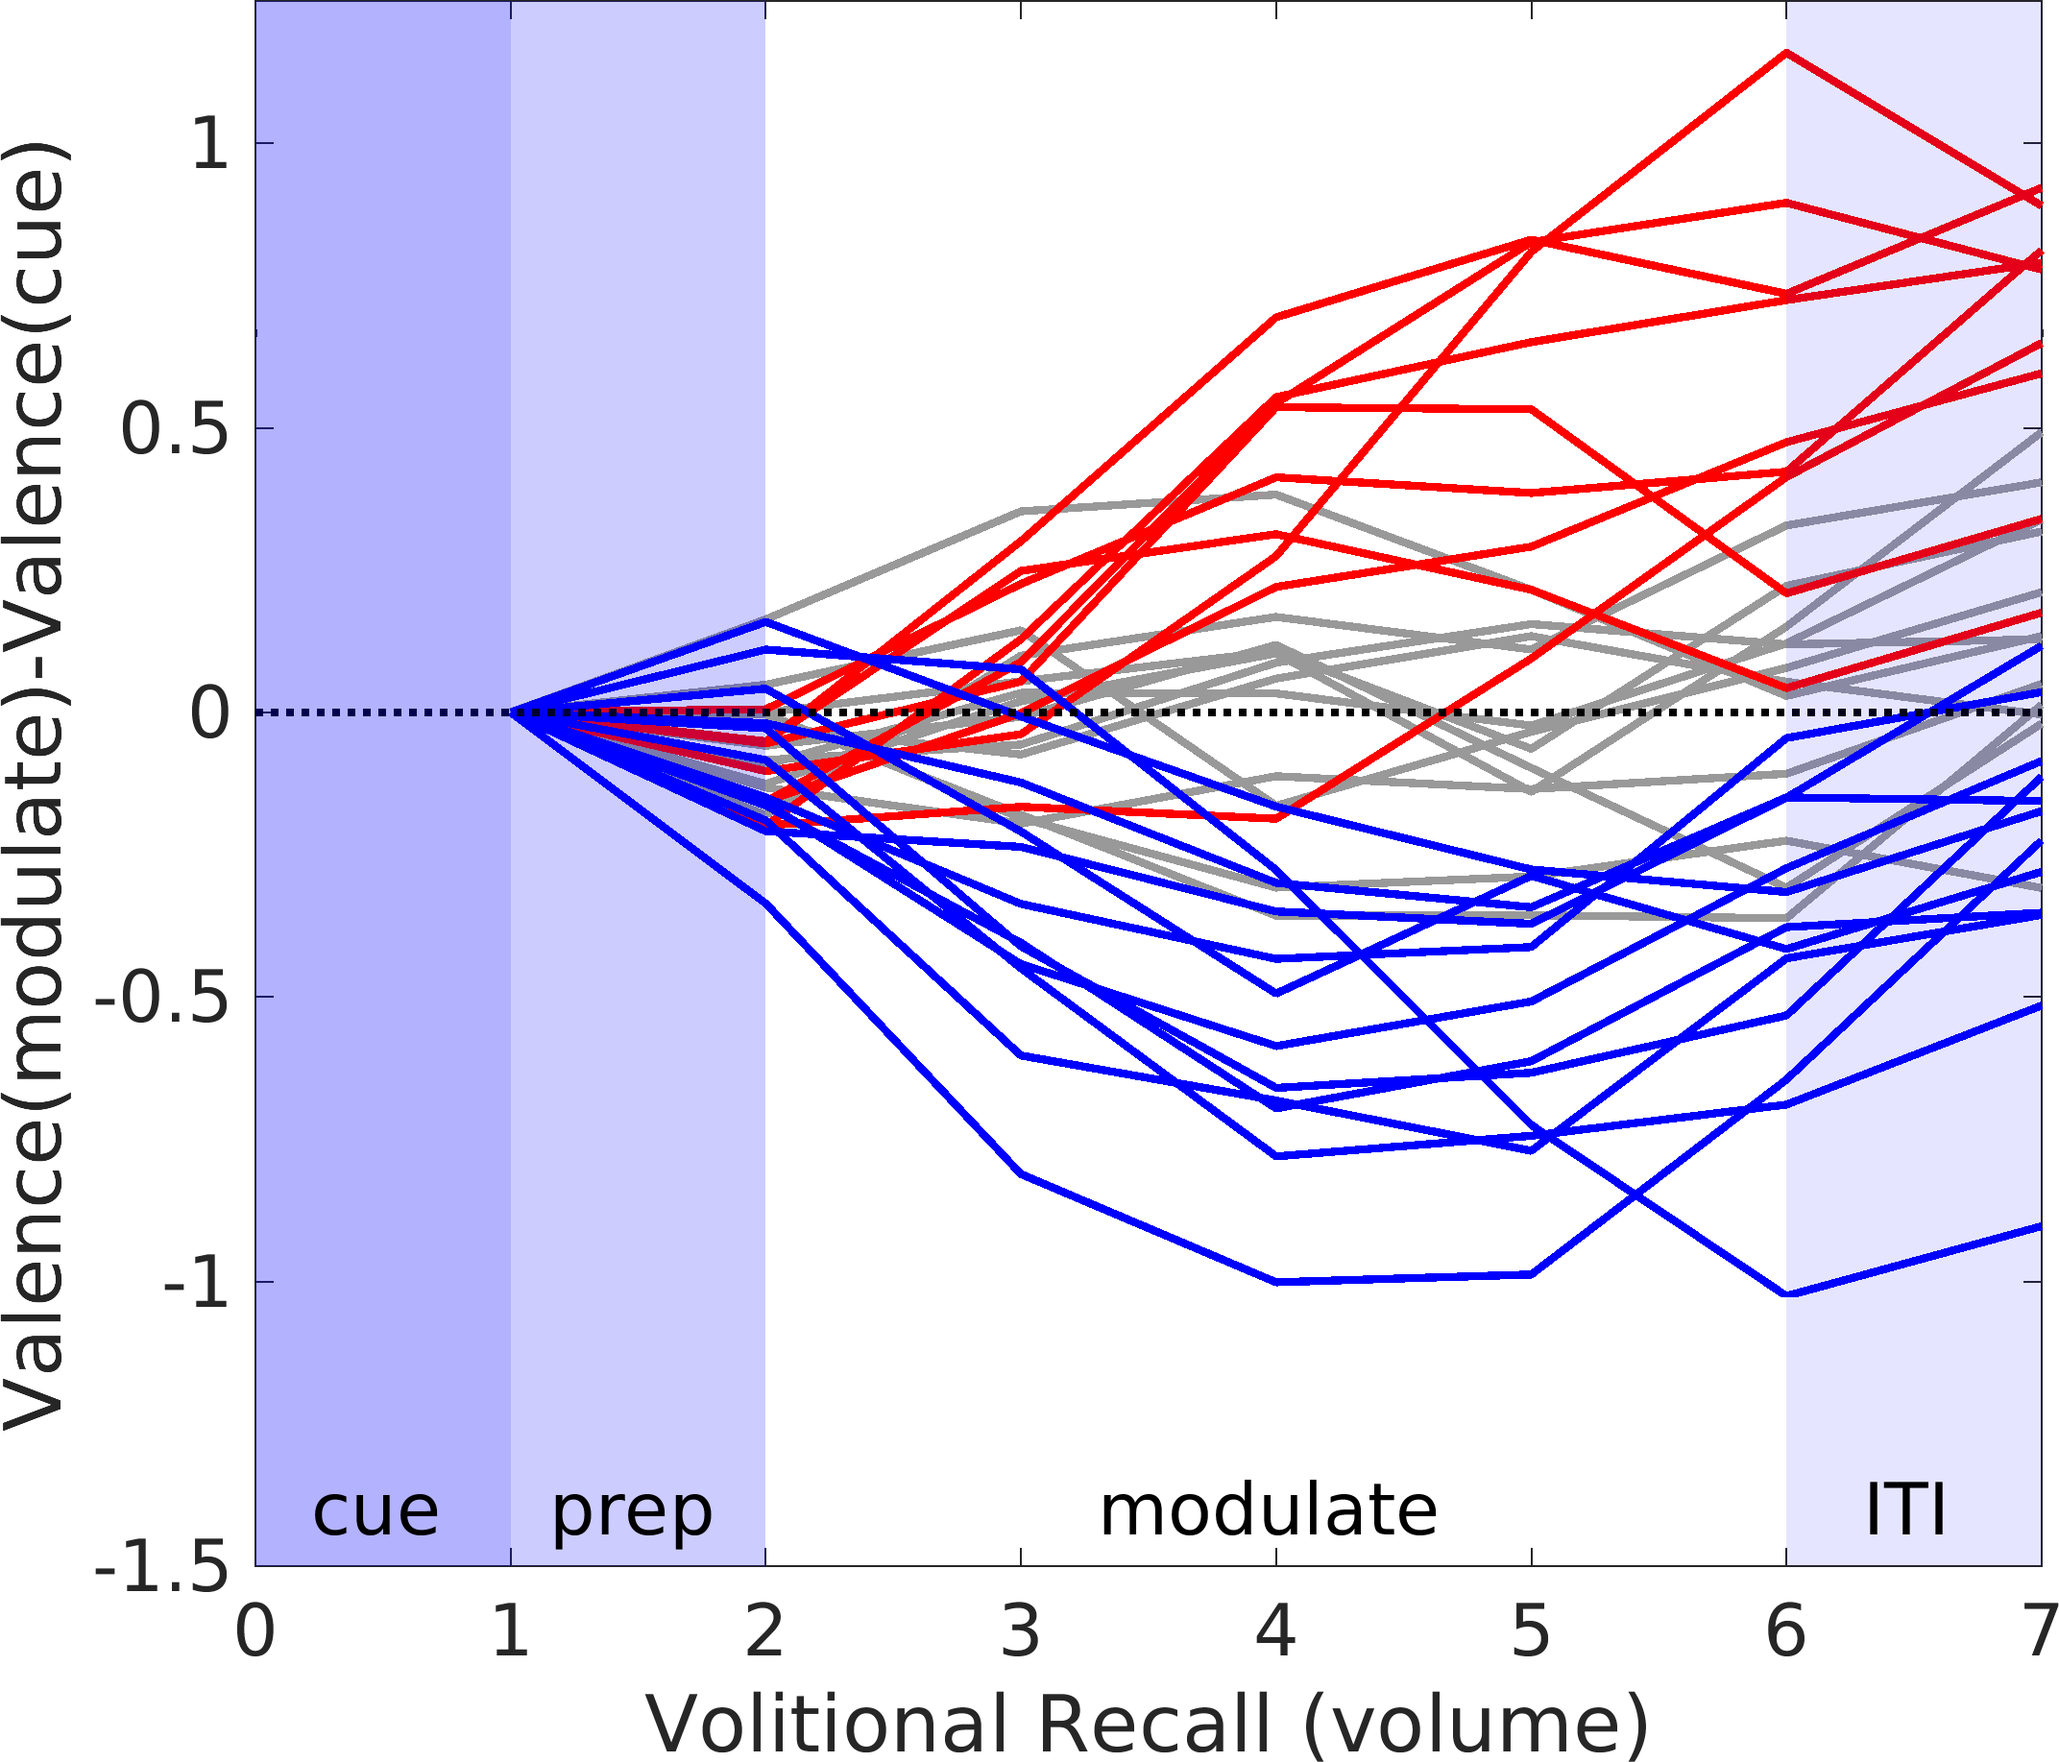
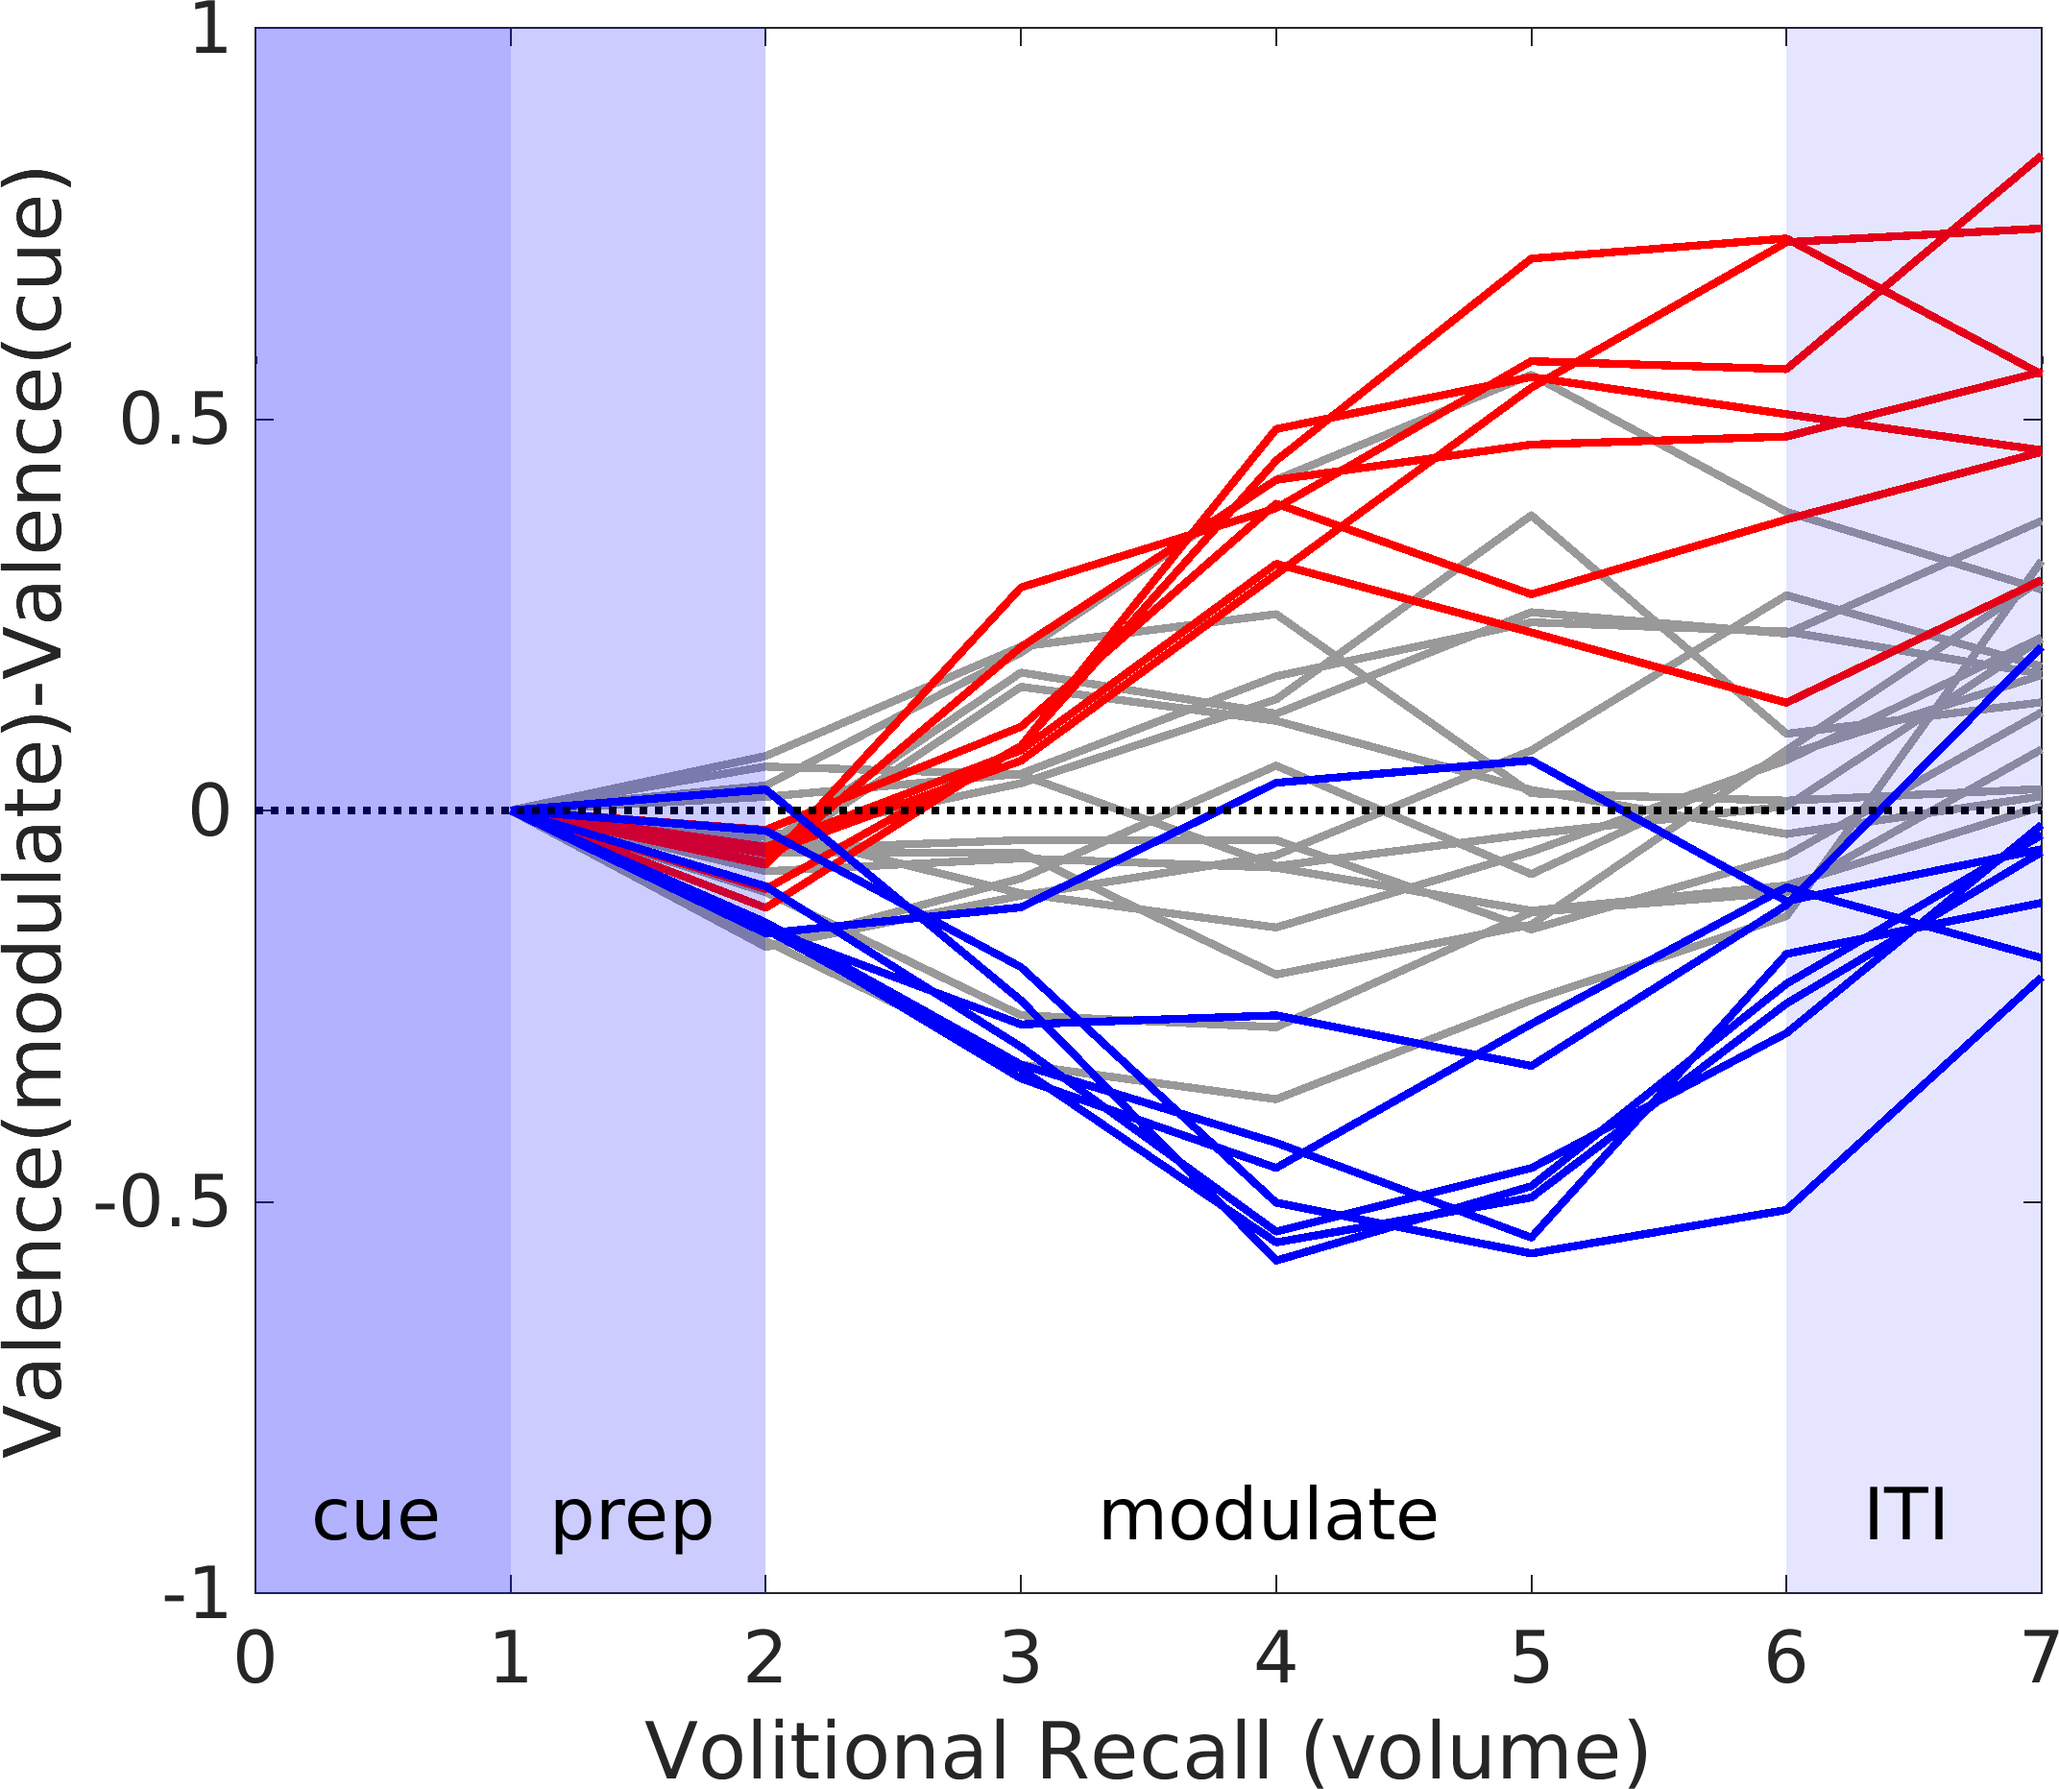
cleaned up IN code

diff --git a/run_project.m b/run_project.m
@@ -22,49 +22,49 @@ addpath(genpath('./source/'));
 %% STEP 1: Initialize the projects directories and parameters.
 init_project;
 
-% %% ------------------------------------------------------------
-% %% STEP 2: Clear and reconstruct the project data folder
-% clean_project;
-% 
-% %% ------------------------------------------------------------
-% %% STEP 3: Preprocess raw data (wrangling, filtering, formatting)
-% 
-% %% fMRI data
-% preprocess_fmri;
-% preprocess_mask;
-% % - preprocess_fd (TBD);
-% 
-% %% Physio data
-% preprocess_scr; 
+%% ------------------------------------------------------------
+%% STEP 2: Clear and reconstruct the project data folder
+clean_project;
+
+%% ------------------------------------------------------------
+%% STEP 3: Preprocess raw data (wrangling, filtering, formatting)
+
+%% fMRI data
+preprocess_fmri;
+preprocess_mask;
+% - preprocess_fd (TBD);
+
+%% Physio data
+preprocess_scr; 
 % - preprocess_hrv (TBD); 
 % - preprocess_emg (TBD);
-%  
-% %% Cognitive data
-% % - preprocess_cog (TBD);
-% 
-% %% ------------------------------------------------------------
-% %% STEP 4: Format Extrinsic Stimuli Design
-% format_ex_3dlss; 
-% 
-% %% ------------------------------------------------------------
-% %% STEP 5: Calculate Extrinsic (EX) Stimuli Beta-Series
-% 
-% %% fMRI data
-% calc_fmri_ex_beta;
-%
-% %% Physio data
-% calc_scr_ex_beta;
-% % - calc_hrv_ex_beta (TBD);
-% % - calc_emg_ex_beta (TBD);
-% 
-% %% ------------------------------------------------------------
-% %% STEP 6: Conduct MVPA for Extrinsic Stimuli of Sys. I.D.
-%  
-% %% Classification of Affect Scores
-% mvpa_fmri_ex_gs_cls % intra-subj Gram-Schmidt MVPA classification
-%                     % performs performance estimation using LOOCV
-%                     % basis for stimulus refitting (see below)
-% 
+ 
+%% Cognitive data
+% - preprocess_cog (TBD);
+
+%% ------------------------------------------------------------
+%% STEP 4: Format Extrinsic Stimuli Design
+format_ex_3dlss; 
+
+%% ------------------------------------------------------------
+%% STEP 5: Calculate Extrinsic (EX) Stimuli Beta-Series
+
+%% fMRI data
+calc_fmri_ex_beta;
+
+%% Physio data
+calc_scr_ex_beta;
+% - calc_hrv_ex_beta (TBD);
+% - calc_emg_ex_beta (TBD);
+
+%% ------------------------------------------------------------
+%% STEP 6: Conduct MVPA for Extrinsic Stimuli of Sys. I.D.
+ 
+%% Classification of Affect Scores
+mvpa_fmri_ex_gs_cls % intra-subj Gram-Schmidt MVPA classification
+                    % performs performance estimation using LOOCV
+                    % basis for stimulus refitting (see below)
+
 mvpa_fmri_ex_gm_cls % intra-subj whole-brain GM MVPA classifications
                     % performs performance estimation using LOOCV
                     % also constructs and saves single model for
@@ -76,16 +76,32 @@ mvpa_fmri_ex_gm_cls % intra-subj whole-brain GM MVPA classifications
 % space.  Will use the inverse to project Haufe-transformed
 % hyperplanes back into GM space for viewing.
 
-%% ------------------------------------------------------------
-%% STEP 7: Conduct MVPA for Secondary Measures
-%%% mvpa_fmri_ex_rgr_scr % (***unworking DRAFT***)
+%% ------------------------------------------------------------ 
+%% STEP 7: compare GS vs GM features (Frontiers 2018 paper)
+% TBD
 
 %% ------------------------------------------------------------ 
-%% STEP 8: Format project design for IN afni-based beta-series
+%% STEP 8: Stimulus adjusted performance (see Frontiers 2018 paper)
+% TBD
+
+%% ------------------------------------------------------------ 
+%% STEP 9: Analyze EX SCR Response (see SciReports 2018 paper)
+analyze_ex_scr; % (draft code, convert to GLMM)
+
+%% ------------------------------------------------------------ 
+%% STEP 10: V vs A hyperplane cosine sim (see SciReports 2018 paper)
+% TBD
+
+%% ------------------------------------------------------------
+%% STEP 11: Conduct MVPA for Secondary Measures
+% mvpa_fmri_ex_rgr_scr % (***unworking DRAFT***)
+
+%% ------------------------------------------------------------ 
+%% STEP 12: Format project design for IN afni-based beta-series
 format_in_3dlss;
 
 %% ------------------------------------------------------------
-%% STEP 9: Calcuate Intrinsic (IN) Stimuli Beta-Series
+%% STEP 13: Calcuate Intrinsic (IN) Stimuli Beta-Series
 
 %% fMRI data
 calc_fmri_in_beta;
@@ -94,28 +110,32 @@ calc_fmri_in_beta;
 % - calc_scr_in_beta (TBD);
 
 %% ------------------------------------------------------------ 
-%% STEP 10: Compute IN Cognitive Dynamics
+%% STEP 14: Compute IN Cognitive Dynamics
 dynamics_fmri_in_gm;
 
-% %% ------------------------------------------------------------ 
-% %% STEP 11: Analysis IN Cognitive Dynamics
-% analyze_in_dynamics;
+%% ------------------------------------------------------------ 
+%% STEP 11: Analysis IN Cognitive Dynamics
+analyze_in_dynamics;
 
 %% ------------------------------------------------------------ 
-%% STEP 12: Analysis of IN ER performance
+%% STEP 12: Analysis IN ER performance
 analyze_in_er_skill;
 analyze_in_er_labels;
+% - predict labels from cog-behave measures
 
-% %% ------------------------------------------------------------ 
-% %% STEP 12: Analyze EX SCR Response (see  SciReports 2018 paper)
-% analyze_ex_scr;
+%% ------------------------------------------------------------ 
+%% STEP 15: Conduct MVPA for Cognitive Dynamics
+% TBD
 
-% %% ------------------------------------------------------------ 
-% %% STEP 13: Hyperplane analysis (see SciReports 2018 paper)
-% % TBD
 
-% %% ------------------------------------------------------------ 
-% %% STEP 14: Stimulus adjusted performance (see Frontiers 2018 paper)
-% % TBD
+%% ------------------------------------------------------------ 
+%% STEP 13: Hyperplane analysis (see SciReports 2018 paper)
+%% (Last position b/c it's slow ... lots of resampling)
+
+%% EX Hyperplanes (global permutation test)
+% TBD
+
+%% IN Dynamics (global permutation test)
+% TBD
 
 toc

diff --git a/source/analysis/analyze_in_er_skill.m b/source/analysis/analyze_in_er_skill.m
@@ -58,17 +58,28 @@ for i = 1:numel(subjs)
         if(isfield(prds,'v_dcmp'))
             
             %% extract stims and mean "feel"
-            stim = prds.v_dcmp.stim;
-            sort_stim = sort(stim');
-            feel = mean(prds.v_dcmp.feel,2);
-            
+            raw_stim = prds.v_dcmp.stim;
+            [~,ids] = sort(raw_stim');
+            stim = raw_stim(ids,:);
+            feel = mean(prds.v_dcmp.feel(ids,:),2);
+            feel_traj = prds.v_dcmp.feel(ids,:);
+
+            %% remove extreme outliers (TICKET hardcoded outliers)
+            stim_keep_ids = find(abs(stim)<=3);
+            stim_feel_ids = find(abs(feel)<=3);
+            cmb_keep_ids = intersect(stim_keep_ids,stim_feel_ids);
+            disp(['                  ',num2str(numel(cmb_keep_ids))]);
+            stim_clean = stim(cmb_keep_ids);
+            feel_clean = feel(cmb_keep_ids);
+            feel_traj_clean = feel_traj(cmb_keep_ids);
+
             %% build data for group GLMM
             predictors = [predictors;double(stim)];
             measures = [measures;double(feel)];
             subjects = [subjects;repmat(i,numel(feel),1)];
             
             %% scatter plot specific points        
-            scatter(stim,feel,10,'MarkerFaceColor', ...
+            scatter(stim_clean,feel_clean,10,'MarkerFaceColor', ...
                     proj.param.plot.white,'MarkerEdgeColor', ...
                     proj.param.plot.very_light_grey);
             hold on;
@@ -78,10 +89,11 @@ for i = 1:numel(subjs)
             subj.study = subj_study;
             subj.name = name;
             
-            subj.stim = sort_stim;
-            subj.feel = feel;
+            subj.stim = stim_clean;
+            subj.feel = feel_clean;
+            subj.feel_traj = feel_traj_clean;
 
-            [b stat] = robustfit(stim,feel);
+            [b stat] = robustfit(stim_clean,feel_clean);
             subj.b1 = b(2); % slope
             subj.b0 = b(1); % intercept
             subj.p1 = stat.p(2); %slope
@@ -122,6 +134,13 @@ end
 for i =1:numel(sig_subjs)
     plot(sig_subjs{i}.stim,sig_subjs{i}.stim*sig_subjs{i}.b1+ ...
          sig_subjs{i}.b0,'Color',proj.param.plot.dark_grey,'LineWidth',2);
+
+%%     disp([sig_subjs{i}.study,'_',sig_subjs{i}.name,', b0=', ...
+%%           num2str(sig_subjs{i}.b0),' b1=',num2str(sig_subjs{i}.b1)]); 
+%%     disp(['          p0=', ...
+%%           num2str(sig_subjs{i}.p0),' p1=',num2str(sig_subjs{i}.p1)]); 
+
+
 end
 
 

diff --git a/source/analysis/analyze_in_er_labels.m b/source/analysis/analyze_in_er_labels.m
@@ -120,8 +120,8 @@ hold on;
 
 %% ----------------------------------------
 %% Set y limits
-hi_rng = 1.25;
-lo_rng = -1.5;
+hi_rng = 1.0;
+lo_rng = -1.0;
 
 %% ----------------------------------------
 %% fill in sections of trajectories
